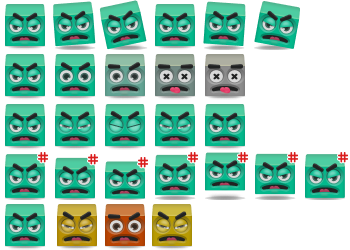
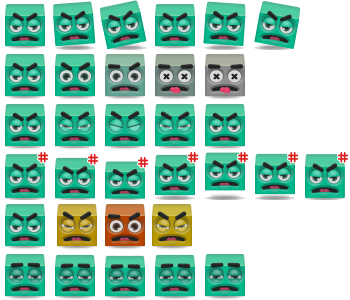
feat: add tired sprite to green monster

diff --git a/src/rebrickz/brick/brick.ts b/src/rebrickz/brick/brick.ts
@@ -33,8 +33,12 @@ export class Brick extends Base {
 		this.health.events.on(Health.EVENTS.DAMAGE, (damage: number) => {
 			this.play("pain")
 			this.emit(Health.EVENTS.DAMAGE, damage)
+
 			if (this.row === World.lastRowIndex) this.playAfterDelay("angry", 500)
-			else this.playAfterDelay("blink", 500)
+			else {
+				if (this.health.isHealthLow()) this.playAfterDelay("tired", 500)
+				else this.playAfterDelay("blink", 500)
+			}
 		})
 
 		this.health.events.on(Health.EVENTS.DIED, () => {
@@ -57,7 +61,8 @@ export class Brick extends Base {
 
 		this.on(Base.EVENTS.MOVE_END, () => {
 			this.stop()
-			this.play("blink")
+			if (this.health.isHealthLow()) this.playAfterDelay("tired", 500)
+			else this.playAfterDelay("blink", 500)
 		})
 
 		this.on(Base.EVENTS.IN_LAST_ROW, () => {
@@ -137,6 +142,21 @@ export class Brick extends Base {
 			// yoyo: true,
 			repeat: -1,
 			repeatDelay: Phaser.Math.Between(200, 500),
+		})
+
+		/**
+		 * Tired
+		 */
+		this.anims.create({
+			key: "tired",
+			frames: this.scene.anims.generateFrameNames(this.texture.key, {
+				start: 0,
+				end: 4,
+				prefix: "monster/green/tired-",
+			}),
+			frameRate: 7,
+			repeat: -1,
+			repeatDelay: 300,
 		})
 
 		/**
